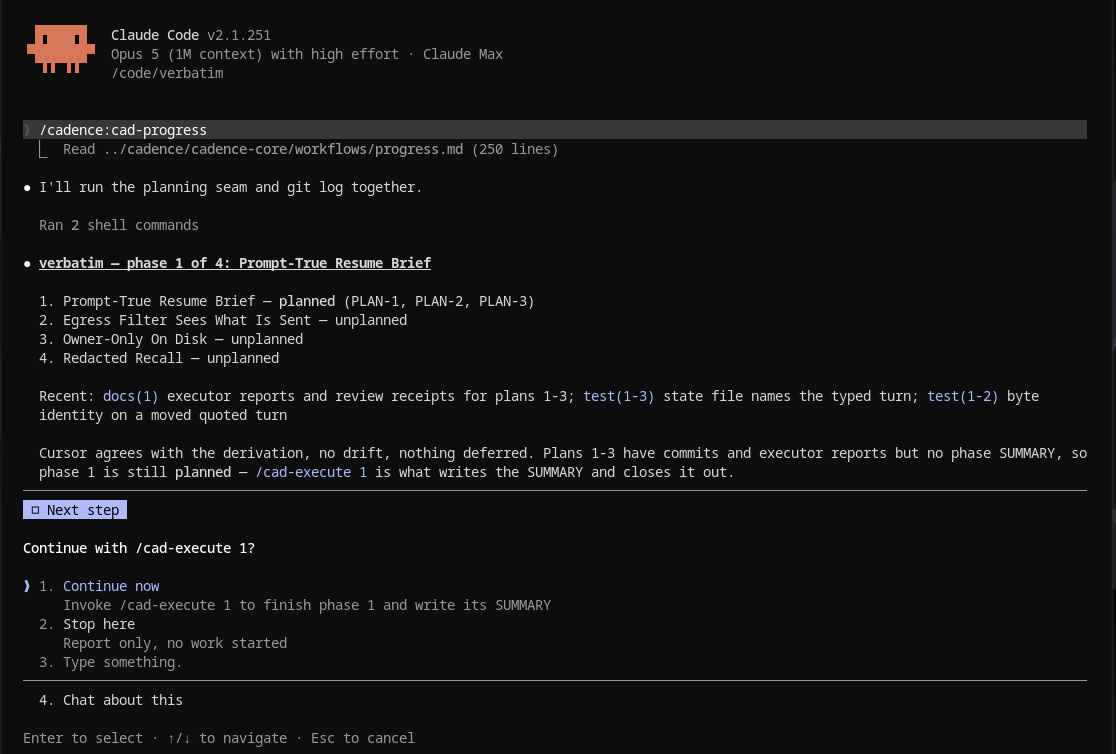
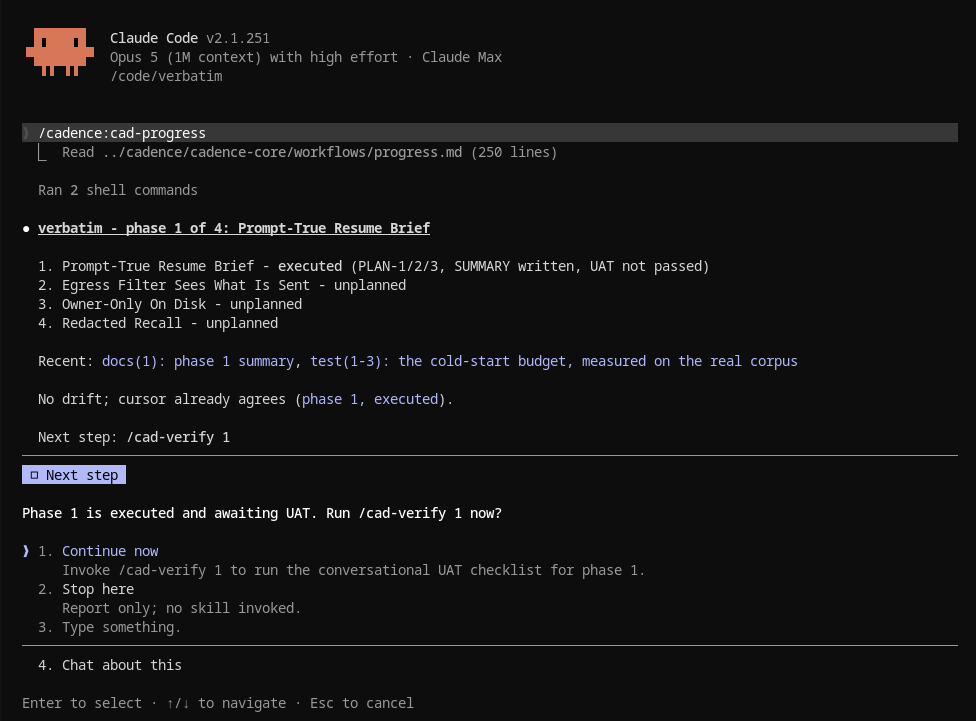
docs: lead the README with the problem and show the loop working
The old opening defined Cadence before it named the thing that makes
anyone want it. Lead with what actually goes wrong instead: Claude
writes a convincing plan, produces working code, and tells you the job
is finished. Keep the sentences that were doing the work, that nothing
is certified by the thing that wrote it and that a check that did not
run is not a check that passed.

Add three screenshots of one project, Verbatim, traced through
cad-progress, cad-verify and cad-audit. The first sits above the fold
and shows state rebuilt from disk. The other two sit under the controls
table as evidence for the Verification and Traceability audit rows,
because a reader who has just been told a verifier scores claims as
verified, failed or uncertain should be able to see it do that.

diff --git a/README.md b/README.md
@@ -2,7 +2,19 @@
 
 [![test](https://github.com/crenshawdev/cadence/actions/workflows/test.yml/badge.svg)](https://github.com/crenshawdev/cadence/actions/workflows/test.yml)
 
-Cadence is an engineering methodology for Claude Code, for code that has to keep working after you ship it. It assumes you are the engineer of record. The model plans, builds and reviews, and you approve the plan, triage what the reviewers find, and authorize every push. Nothing is certified by the thing that wrote it. It costs you attention at each of those points: if you want to describe a feature and come back to a merged PR, this is the wrong tool.
+**Appearance is cheap. Verification is the work.**
+
+Cadence is for developers using Claude Code on software they will still own after the session ends.
+
+Claude can write a convincing plan, produce working code, and tell you the job is finished. The harder part is keeping the decisions that led there, stopping a long session from becoming the project record, and establishing that what you got is what you asked for.
+
+Cadence keeps the project in the repository. Decisions, plans, progress, review findings and verification live under `.planning/`, where a new session reads them off disk. A planner, an executor, reviewers and a verifier each work in fresh context, and nothing is certified by the thing that wrote it. You are the engineer of record: you approve the plan, triage what the reviewers find, and authorize every push.
+
+![Running /cadence:cad-progress in the Verbatim repo. Cadence reports phase 1 of 4 executed with its SUMMARY written and UAT not passed, lists the three unplanned phases after it, confirms the state cursor agrees with disk, and offers to run /cad-verify 1.](./docs/screenshots/cad-progress-resume.png)
+
+*Cadence rebuilds Verbatim's state from the repo, finds phase 1 executed and awaiting UAT, and offers `/cad-verify 1` as the next step.*
+
+Cadence is deliberately not an autopilot. If you want to describe a feature and come back to a merged PR, this is the wrong tool.
 
 The methodology ships as controls. Each step of the loop has named checks around it, each check records that it ran, and a check that did not run is not a check that passed. The record is a file in your repo, not a claim in a chat window.
 
@@ -51,6 +63,16 @@ Eight of them, and every one hands its decision to you rather than deciding for 
 | Traceability audit | before a release ships | `/cad-audit` traces every requirement to a phase, a plan and a verification, both directions |
 | Coverage audit | on a completed phase | `/cad-coverage` reads the assertions rather than counting test files |
 | The record | every dispatch, always | `.planning/trace.jsonl` prices each subagent, `/cad-report` reads it back as receipts |
+
+Two of those rows, at work:
+
+![The deep verifier finishing a goal-backward pass over phase 1's eight UAT items. It reports 6 of 8 passed and 2 failed, and for the failed item it separates a criterion that no developer-run test asserts from a debug-profile cost that belongs to an earlier release, then asks how the criterion should be resolved.](./docs/screenshots/cad-verify.png)
+
+*The goal-backward pass scores 6 of 8, and both failures are specific: an acceptance criterion no developer-run test actually asserts, and a performance cost that belongs to an earlier version rather than this phase. It asks how to resolve the failure rather than deciding.*
+
+![Running /cadence:cad-audit. The audit returns PASS over the one active requirement in REQUIREMENTS.md, showing INJ-07 traced to phase 1 and phases/1/PLAN-1.md with its verification box checked, counts of 1 traced and 0 broken, criteria coverage of 6 of 6, and no dropped, orphan or version-drift entries.](./docs/screenshots/cad-audit.png)
+
+*With verification resolved, the audit traces Verbatim's active requirement to its phase, its plan and a checked verification box, and reports the criteria coverage behind it.*
 
 `/cad-report` renders one phase's record as a narrative, and `/cad-suggest` reads the same record back the other way: it turns what the dispatches actually cost and what the gates actually caught into retune suggestions, each carrying its config key, the value in force, a direction and a target, and it offers to route the ones you accept to `/cad-config`. The controls generate the evidence, and that is what the evidence is for.
 
